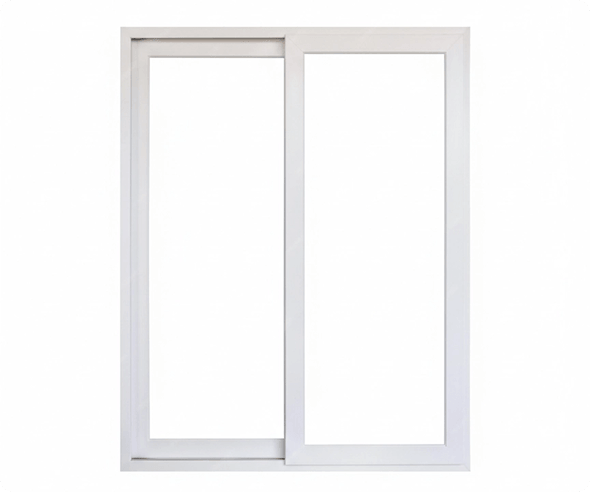
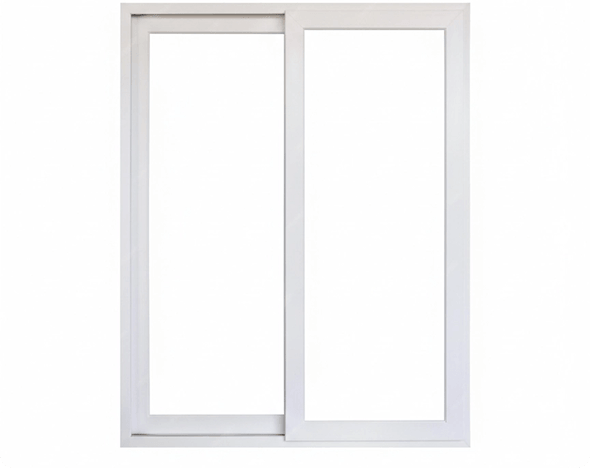
Update calculator layout alignment and emphasis
Align the window preview with the first size input row and increase prominence of the total area line for clearer step-one readability.

Made-with: Cursor

diff --git a/wp-content/themes/okna-theme/css/update.css b/wp-content/themes/okna-theme/css/update.css
@@ -2930,9 +2930,16 @@
   overflow: hidden;
   background: transparent;
   display: flex;
-  align-items: center;
+  align-items: flex-start;
   justify-content: center;
   width: calc(50% - 30px);
+  padding-top: 58px; /* верх окна на уровне первой строки полей */
+}
+
+@media (max-width: 720px) {
+  .wcp-body__right {
+    padding-top: 0;
+  }
 }
 
 .wcp-img-placeholder img {
@@ -3113,12 +3120,17 @@
 /* Расчет площади (шаг 1) */
 .wcp-area-hint{
   color:#000;
-  font-size:16px;
+  font-size:24px;
   line-height:1.3;
   padding-top:8px;
   padding-bottom:16px; /* снизу больше */
   margin:0 0 18px 0;
   font-weight:600;
+}
+
+.wcp-area-hint #areaM2Val {
+  font-size: 1.1em;
+  font-weight: 700;
 }
 
 /* Шаг 1: галочки по подмащиванию */
